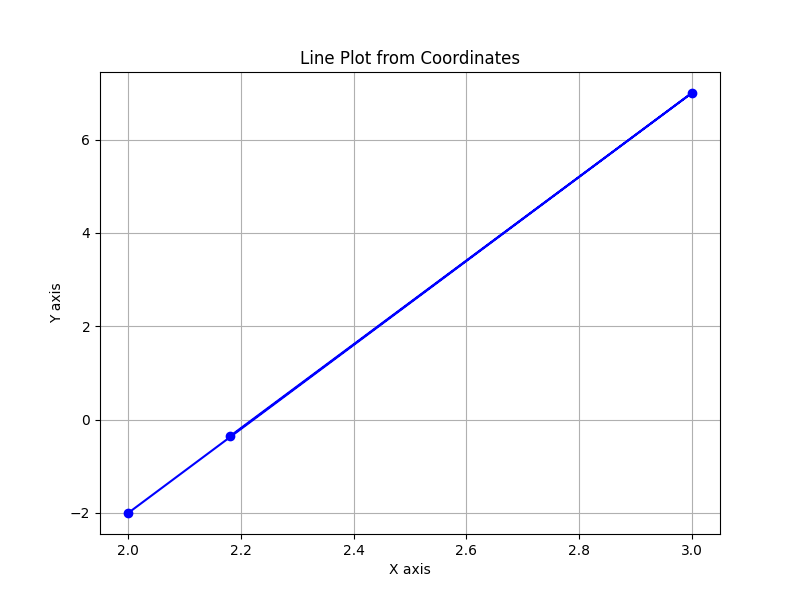
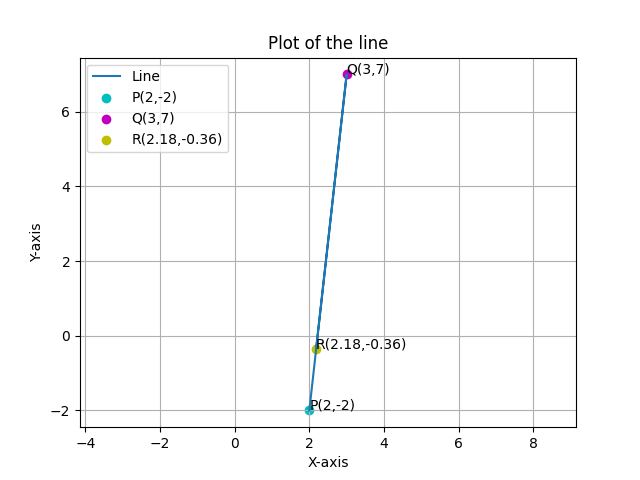
EE1030

diff --git a/Assignment-2/main.tex b/Assignment-2/main.tex
@@ -1,4 +1,4 @@
-\let\negmedspace\undefined
+ \let\negmedspace\undefined
 \let\negthickspace\undefined
 \documentclass[journal]{IEEEtran}
 \usepackage[a5paper, margin=10mm, onecolumn]{geometry}
@@ -59,11 +59,11 @@
 
 \textbf{Question:}
 \\
-In what ratio does the point $\brak{\frac{24}{11},y}$ divide the line segment joining he points $\textbf{P}$ = (2,-2) and $\textbf{Q}$ = (3,7)? Also find the value of $y$. \hfill(10,2017)\\ 
+In what ratio does the point \myvec{\frac{24}{11}\\y} divide the line segment joining he points $\vec{P}$ = \myvec{2 \\ -2} and $\textbf{Q}$ = \myvec{3 \\ 7} ? Also find the value of $y$. \hfill(10,2017)\\ 
 
 
 \textbf{Answer:} \\
-Let the point $\brak{\frac{24}{11},y}$ be equals to \textbf{R}.\\ \\
+Let the point \myvec{\frac{24}{11}\\y} be equals to \textbf{R}.\\ \\
 
 \begin{table}[h!]    
   \centering
@@ -72,7 +72,7 @@ Let the point $\brak{\frac{24}{11},y}$ be equals to \textbf{R}.\\ \\
   \label{tab1.5.37.1}
 \end{table}
 
-The point \textbf{R} $\brak{\frac{24}{11},y}$ divides the points \textbf{P}(2,-2) and \textbf{Q}(3,7)
+The point \textbf{R} \myvec{\frac{24}{11}\\ y} divides the points \textbf{P}\myvec{2\\-2} and \textbf{Q}\myvec{3 \\ 7}
 in the ratio $k:1$. \\ \\
 Section formula :-\\ \\
 
@@ -85,11 +85,17 @@ Here,
     (k+1)\myvec{\frac{24}{11}\\y} &= k\myvec{3\\7}+ \myvec{2\\-2}\\
     \implies k &= \frac{2}{9}
 \end{align}
-Substituting the value of $k$ in the equation\ref{eq1.5.37.2} we get value of $y$ as
+Substituting the value of $k$ in the equation\eqref{eq1.5.37.2} we get value of $y$ as
 \begin{align}
     y &= \frac{-4}{11}
 \end{align}
 
+\begin{figure}[h!]
+   \centering
+   \includegraphics[width=0.7\linewidth]{figs/fig.png}
+   \caption{Plot of the line}
+   \label{stemplot}
+\end{figure}
 
 
 \end{document}

diff --git a/Assignment-2/codes/plot.py b/Assignment-2/codes/plot.py
@@ -1,27 +1,38 @@
+import numpy as np
+import numpy.linalg as LA
 import matplotlib.pyplot as plt
 
-# Function to read coordinates from a file
-def read_coordinates(filename):
-    x_coords = []
-    y_coords = []
-    with open(filename, 'r') as file:
-        for line in file:
-            x, y = map(float, line.split())
-            x_coords.append(x)
-            y_coords.append(y)
-    return x_coords, y_coords
+# Load the data from the file
+data = np.loadtxt('point.txt')
 
-# Read coordinates from file
-x, y = read_coordinates('point.txt')
+P = np.array((data[0]))
+Q = np.array((data[1]))
+R = np.array((data[2]))
 
-# Create a plot
-plt.figure(figsize=(8, 6))
-plt.plot(x, y, marker='o', linestyle='-', color='b')  # Draw points and lines between them
-plt.title('Line Plot from Coordinates')
-plt.xlabel('X axis')
-plt.ylabel('Y axis')
+txtP = 'P(2,-2)'
+txtQ = 'Q(3,7)'
+txtR = 'R(2.18,-0.36)'
+
+
+x = data[3:, 0]
+y = data[3:, 1]
+
+
+plt.plot(data[0:3, 0], data[0:3, 1], label = 'Line')
+plt.scatter(data[0, 0], data[0, 1], c = 'c', label = txtP)
+plt.scatter(data[1, 0], data[1, 1], c = 'm', label = txtQ)
+plt.scatter(data[2, 0], data[2, 1], c = 'y', label = txtR)
+
+plt.annotate(txtP, xy = P)
+plt.annotate(txtQ, xy = Q)
+plt.annotate(txtR, xy = R)
+
+plt.xlabel('X-axis')
+plt.ylabel('Y-axis')
+plt.title('Plot of the line')
+plt.axis('equal')
 plt.grid(True)
-# Save the plot as a PNG file
+plt.legend(loc = 'upper left')
+
 plt.savefig('../figs/fig.png', format='png')
 plt.show()
-
